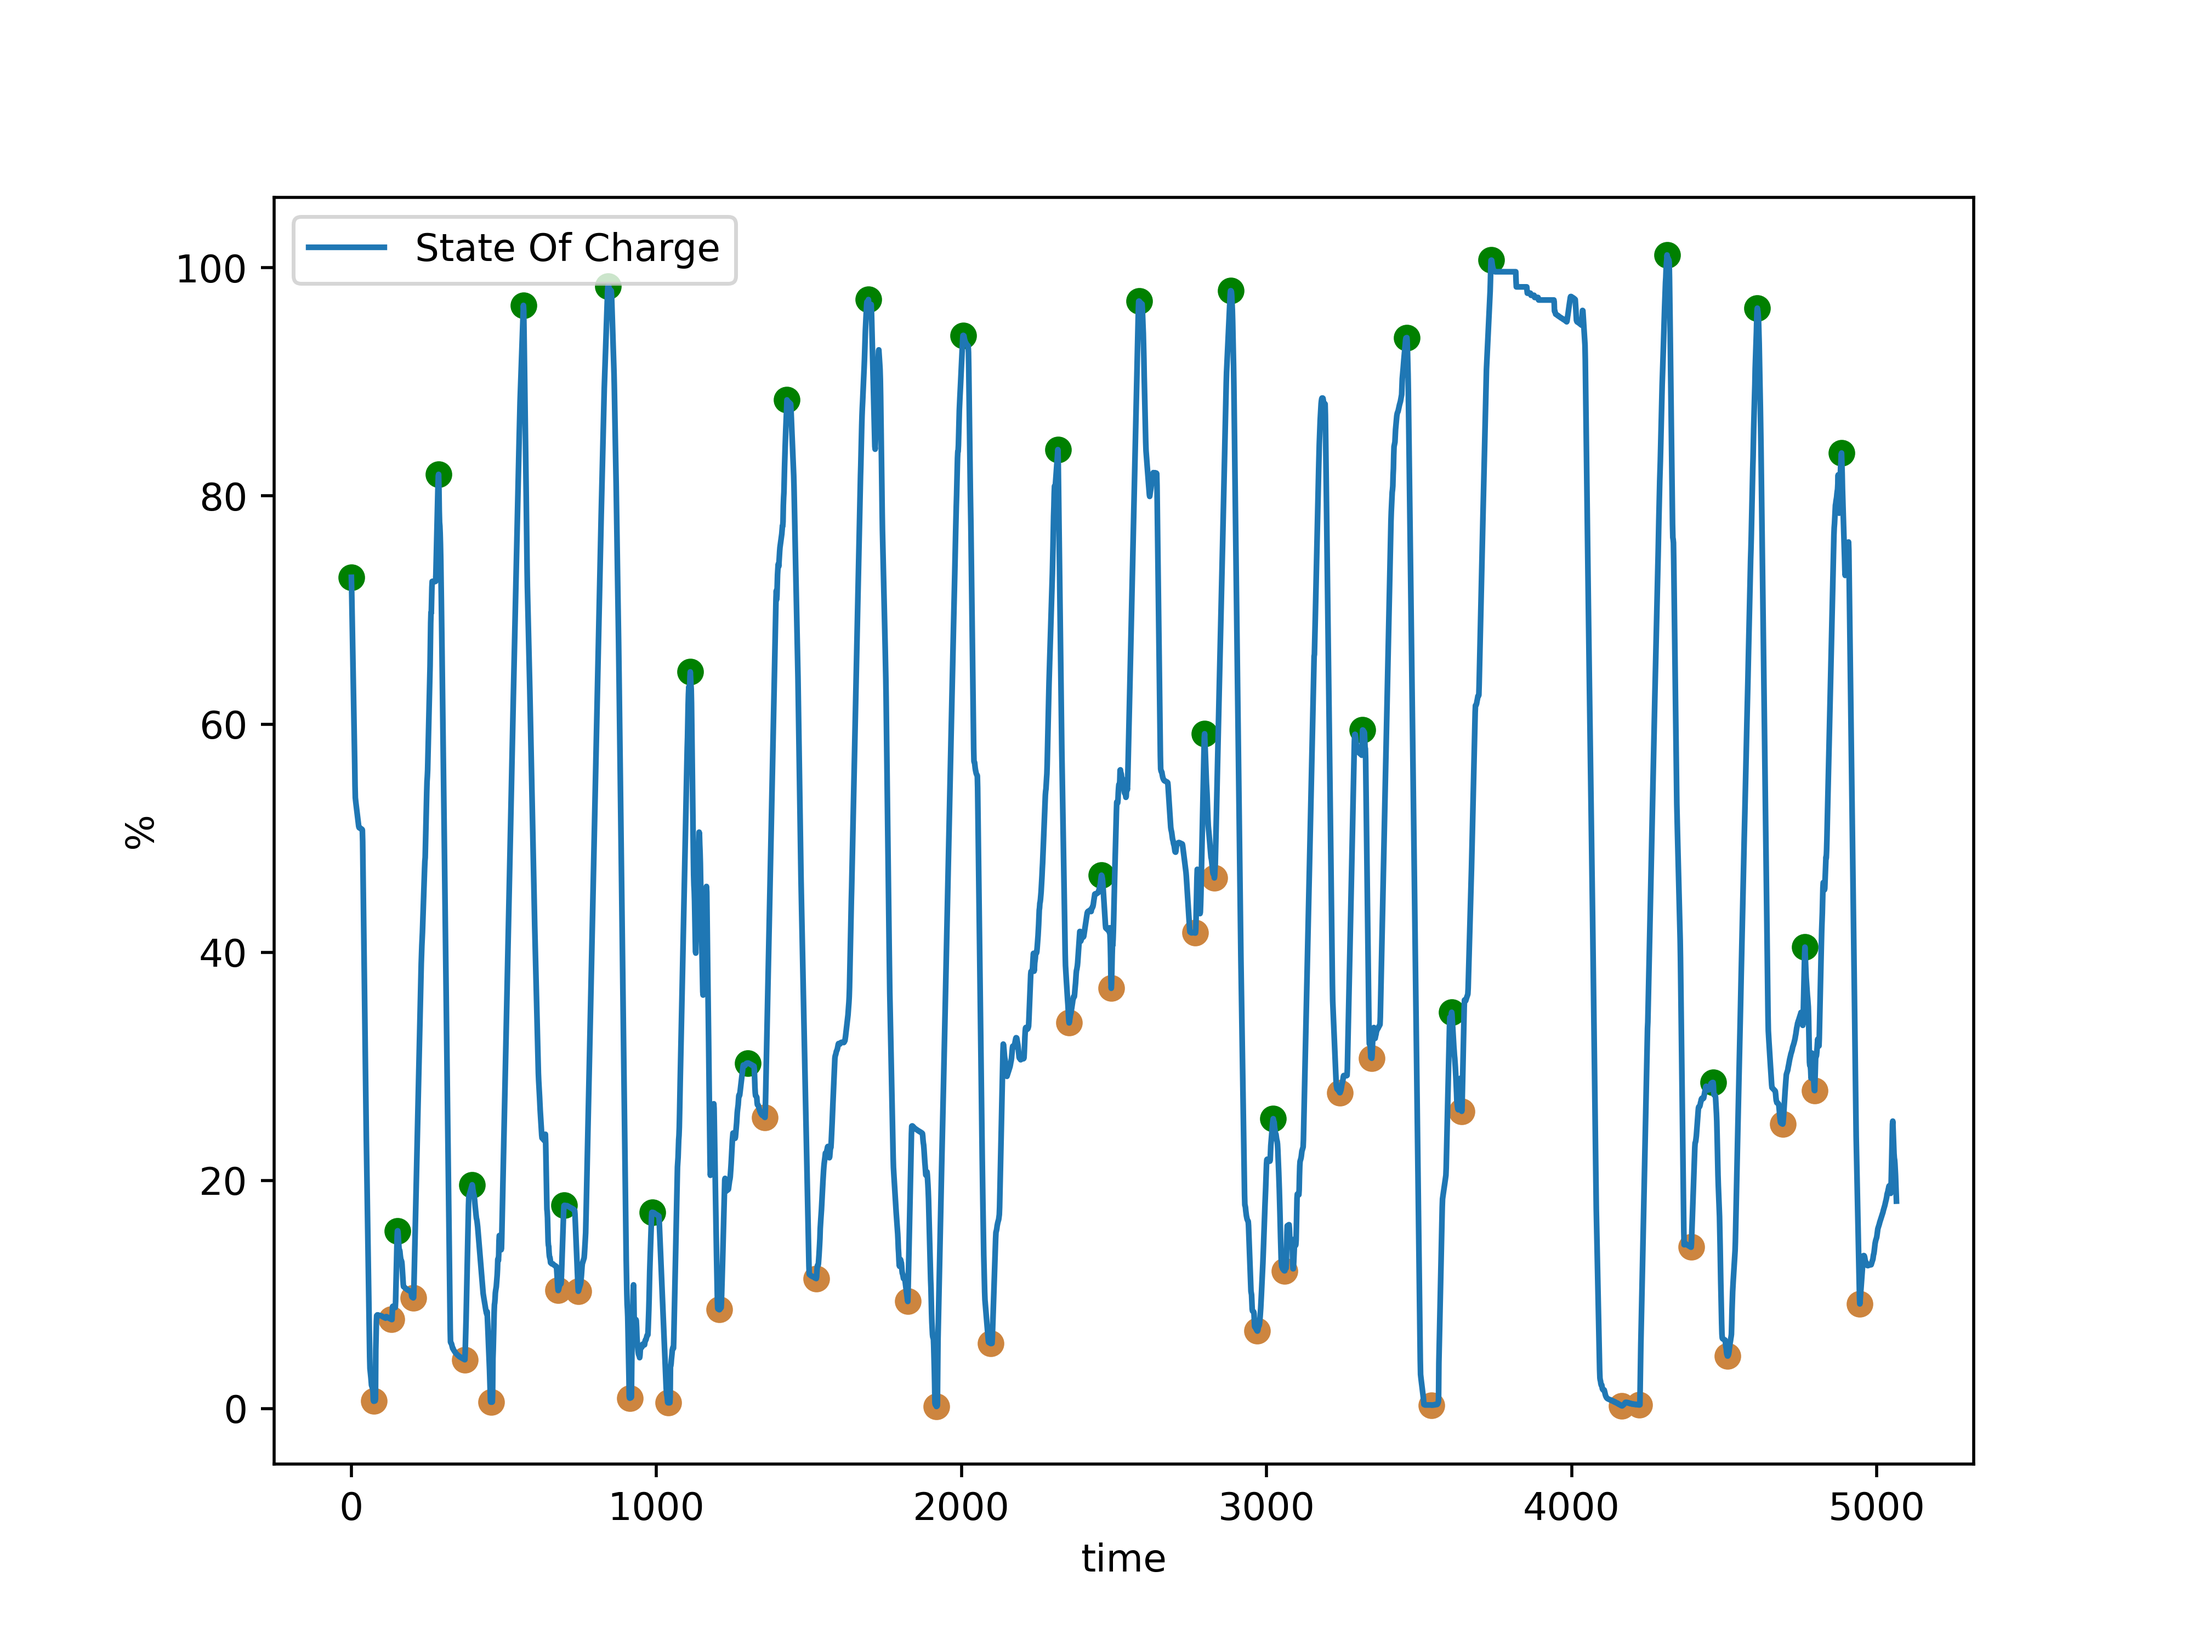
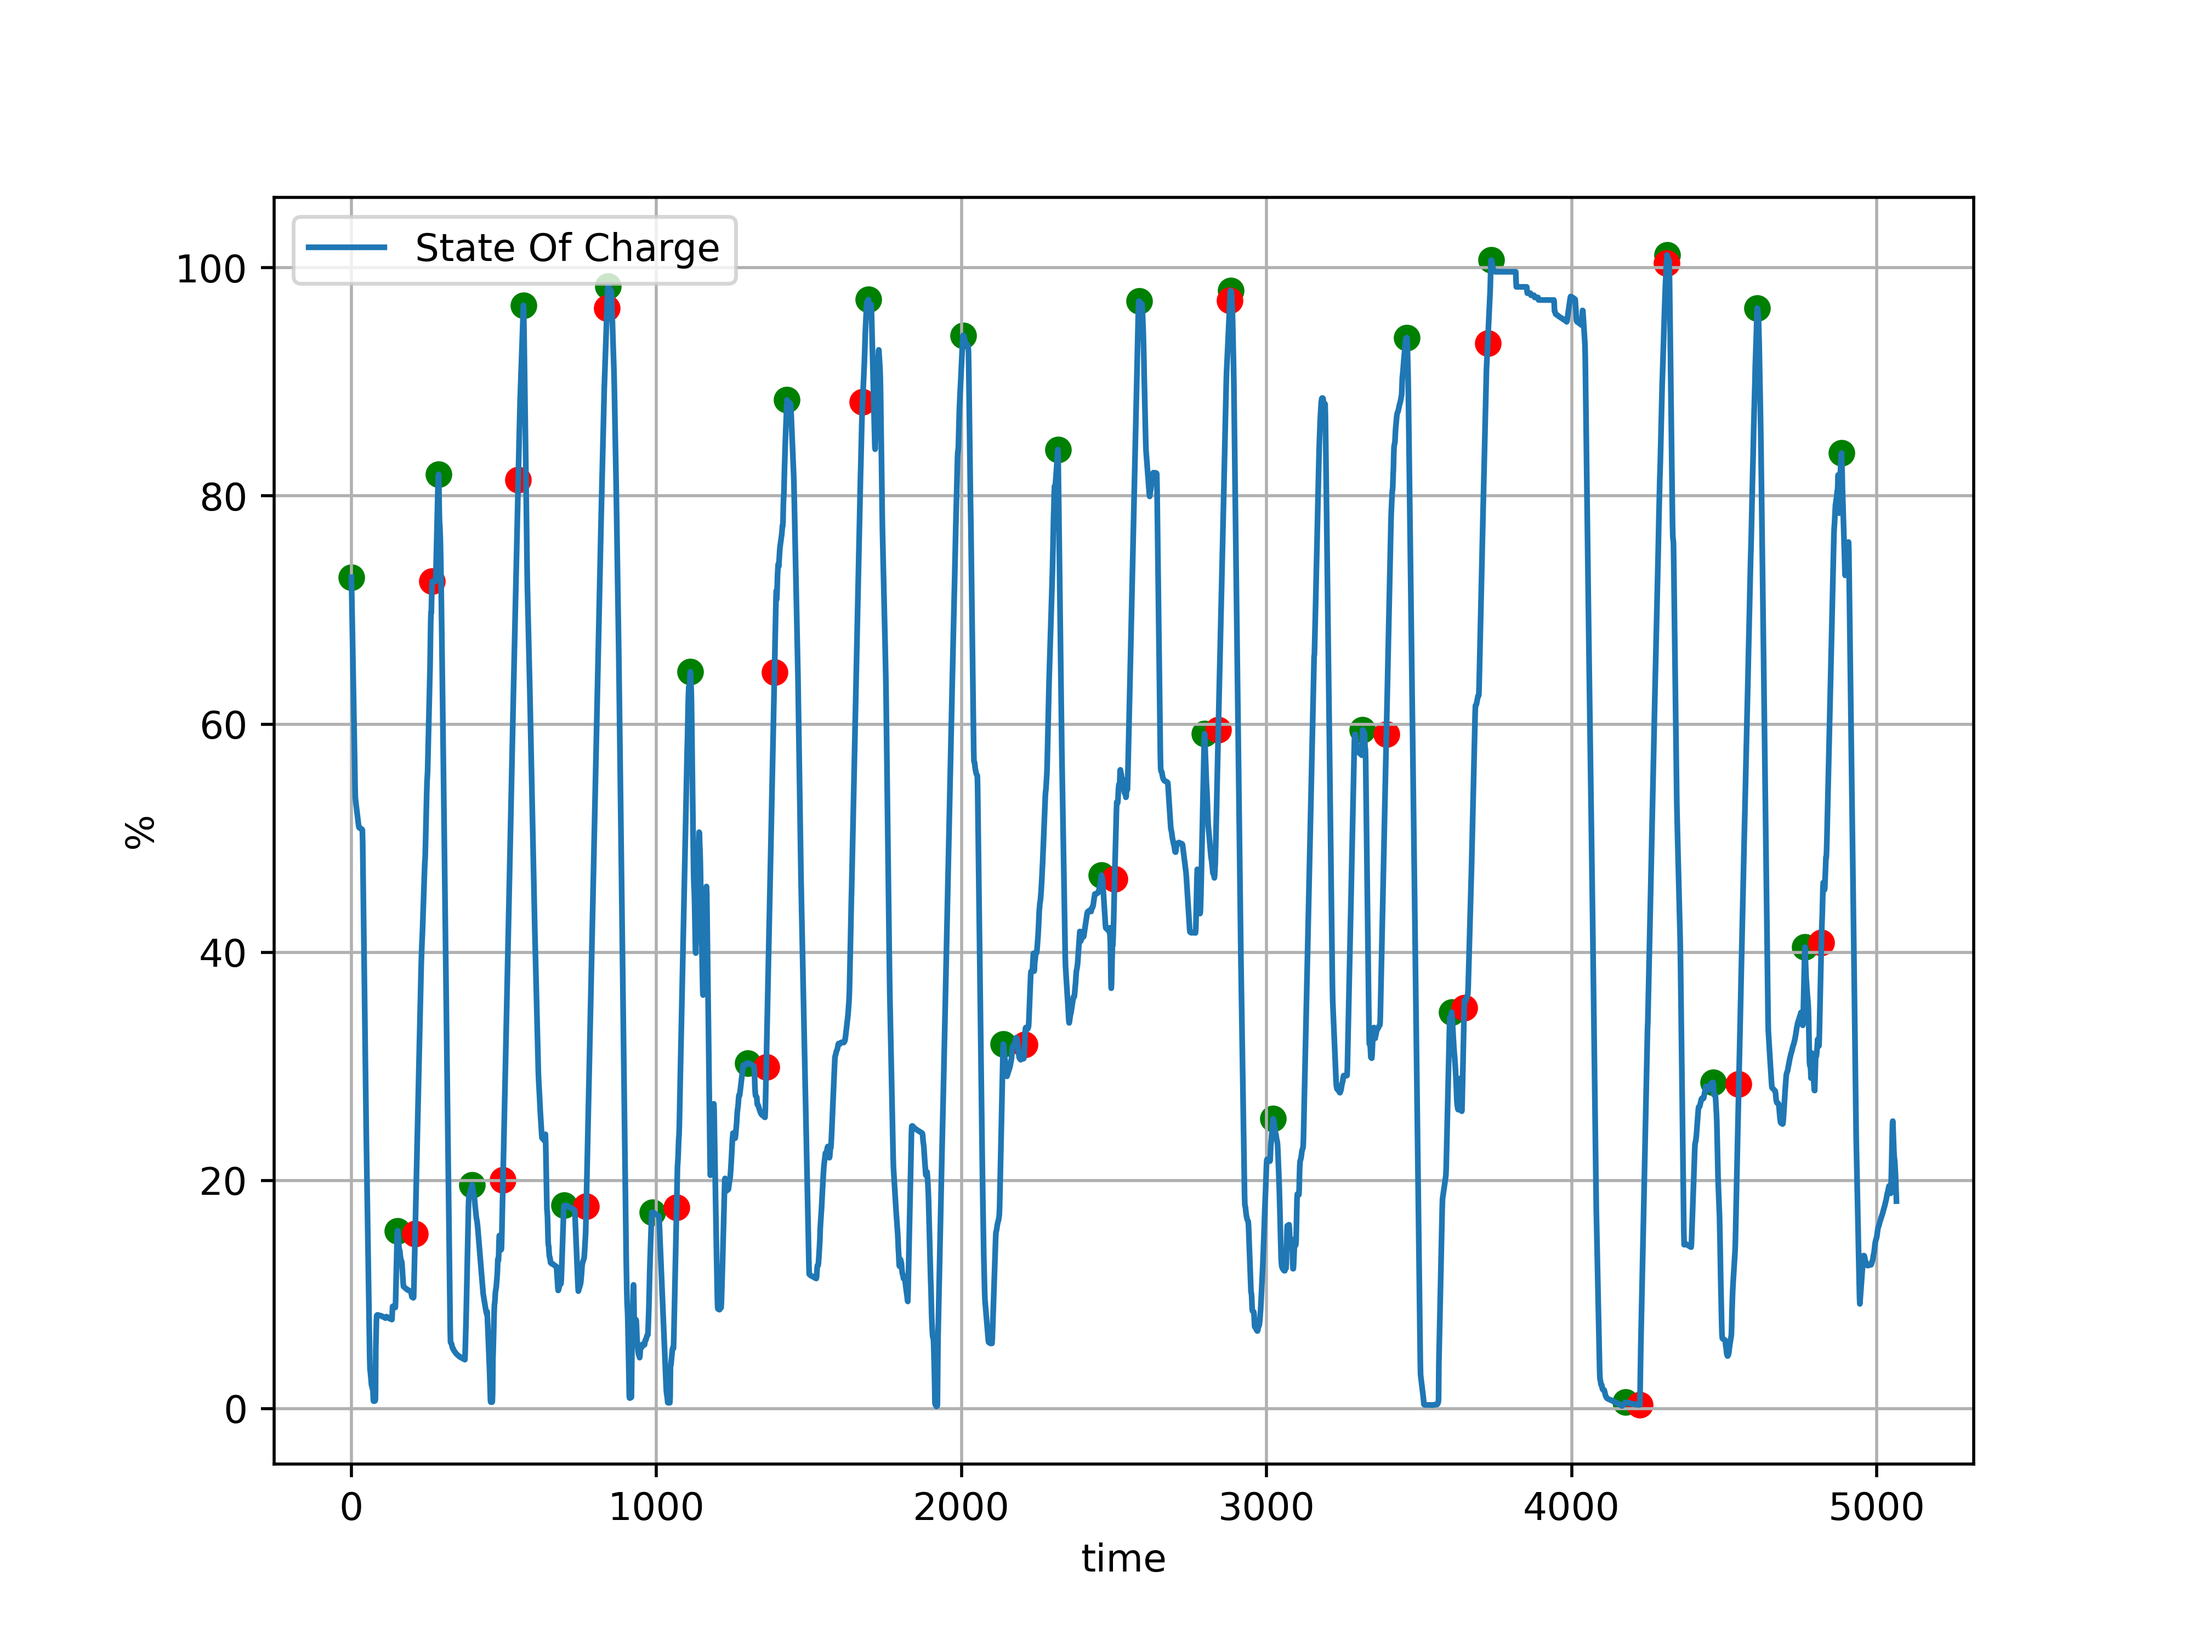
=Partial trips, their visualization

diff --git a/Compute.py b/Compute.py
@@ -6,7 +6,7 @@ from math import nan, isnan
 import numpy as np
 
 
-def get_local_extremes(soc_ls, k=40):
+def get_local_extremes(soc_ls, k=30):
     # Param. k: time slots of monotonic increase of the SOC followed by monotonic decrease
 
     local_maxima_indices = [0]  # the start is included
@@ -30,13 +30,13 @@ def process_roundtrips_stack():
     Utilities.init_logging("roundtrips.log")
     y1_ed, y2_er, y3_soc = Utilities.get_data()
     lmax_indices, lmin_indices = get_local_extremes(y3_soc)
+    trip_endpoints = []   # for graphics
 
     stack_of_trips = []
     completed_trips = []
-    # For each dict, key: starting point of the partial round trip;
-    # value: tuple of (indices_ls, starting_lmax, energy_delivered_values_ls, energy_retrieved_values_ls)
+    # trip: tuple of (indices_ls, starting_lmax, energy_delivered_values_ls, energy_retrieved_values_ls)
+
     passed_lmin = False
-    last_lmax_value = 0
     for i in range(len(y3_soc)):
         current_value = y3_soc[i]
         # is it a starting point for a trip?
@@ -48,18 +48,19 @@ def process_roundtrips_stack():
             logging.info("Passed local minimum at i=" + str(i))
             passed_lmin = True
         # is it the ending point of a trip? It must have gone beyond a minimum, with both discharge and recharge
-        elif passed_lmin and (abs(current_value - stack_of_trips[-1][1]) < 1):
-            logging.info("Ending trip that started at " + str(stack_of_trips[-1][0][0]) + ", at i=" + str(i))
-            completed_trips.append(stack_of_trips.pop())
-            last_lmax_value = 0
-        else:  # general case: add e.r. and e.d. to the dictionary of the current trip
-            current_trip = stack_of_trips[-1]
-            if not(isnan(y1_ed[i])) and not(isnan(y1_ed[i])):
-                current_trip[0].append(i)
-                current_trip[1].append(y1_ed[i])
-                current_trip[2].append(y1_ed[i])
+        elif len(stack_of_trips) > 0:  # check that we are in a trip
+            if passed_lmin and (abs(current_value - stack_of_trips[-1][1]) < 0.5):
+                logging.info("Ending trip that started at " + str(stack_of_trips[-1][0][0]) + ", at i=" + str(i))
+                completed_trips.append(stack_of_trips.pop())
+                trip_endpoints.append(i)
+            else:  # general case: add e.r. and e.d. to the dictionary of the current trip
+                current_trip = stack_of_trips[-1]
+                if not(isnan(y1_ed[i])) and not(isnan(y1_ed[i])):
+                    current_trip[0].append(i)
+                    current_trip[2].append(y1_ed[i])
+                    current_trip[3].append(y1_ed[i])
 
-    return completed_trips
+    return completed_trips, trip_endpoints
 
 
 

diff --git a/Graphics.py b/Graphics.py
@@ -39,6 +39,7 @@ def plot_l_extremes():
     _ed, _er, soc_ls = Utilities.get_data()
     x = list(range(len(soc_ls)))
     lmax_indices, lmin_indices = Compute.get_local_extremes(soc_ls)
+    completed_trips, trip_endpoints = Compute.process_roundtrips_stack()
 
     _y1_ed, _y2_er, y3_soc = Utilities.get_data()
     x = list(range(len(y3_soc)))
@@ -58,15 +59,24 @@ def plot_l_extremes():
             y_scatter.append(nan)
     plt.scatter(x, y_scatter, color='green')
 
-    y_scatter2 = []
-    for i in range(len(y3_soc)):
-        if i in lmin_indices:
-            y_scatter2.append(y3_soc[i])
-        else:
-            y_scatter2.append(nan)
-    plt.scatter(x, y_scatter2, color='peru')
-    ax.legend()
+    # y_scatter2 = []
+    # for i in range(len(y3_soc)):
+    #     if i in lmin_indices:
+    #         y_scatter2.append(y3_soc[i])
+    #     else:
+    #         y_scatter2.append(nan)
+    # plt.scatter(x, y_scatter2, color='yellow')
 
+    y_scatter3 = []
+    for i in range(len(y3_soc)):
+        if i in trip_endpoints:
+            y_scatter3.append(y3_soc[i])
+        else:
+            y_scatter3.append(nan)
+    plt.scatter(x, y_scatter3, color='red')
+    
+    ax.legend()
+    plt.grid()
     plt.savefig("figure_local_extremes.png", dpi=500)
     fig.show()
 
